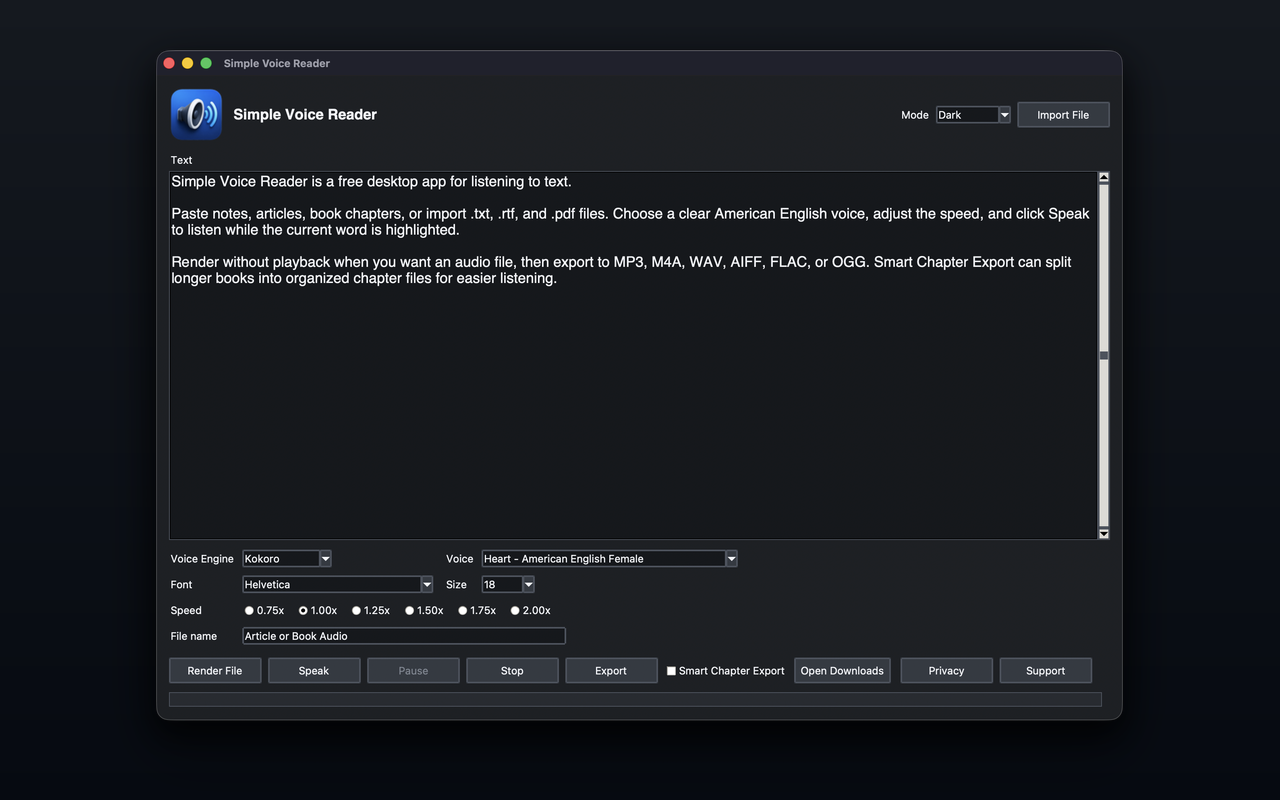
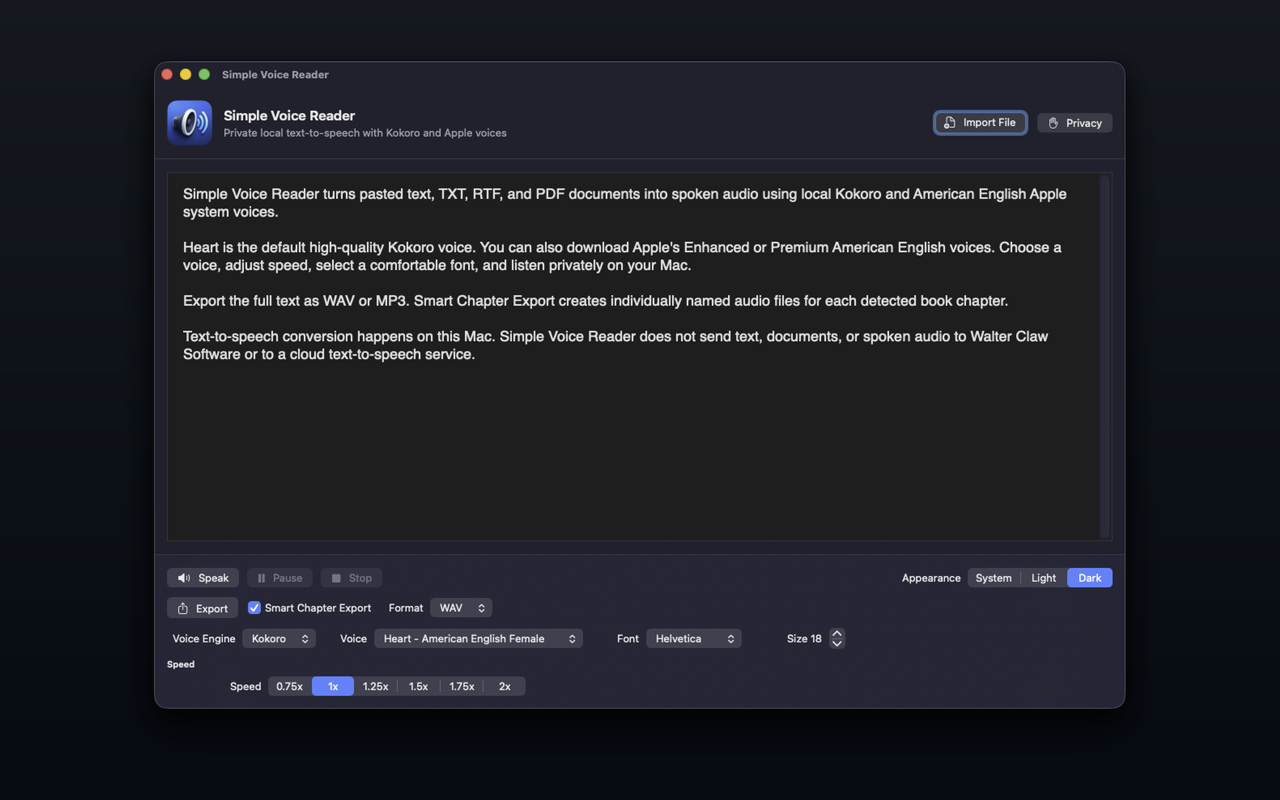
Restore Simple Voice Reader export marketing

Changed region(s): [[0.125, 0.0625, 0.875, 0.75], [0.125, 0.6875, 0.875, 0.9062], [0.7188, 0.125, 0.875, 0.1875]]

diff --git a/simple-voice-reader.html b/simple-voice-reader.html
@@ -56,8 +56,8 @@
             "name": "Simple Voice Reader",
             "applicationCategory": "ProductivityApplication",
             "operatingSystem": "iOS, iPadOS, macOS, Windows",
-            "softwareVersion": "1.0",
-            "description": "Simple Voice Reader is a free Mac text-to-speech reader for listening to pasted text, imported TXT, RTF, and PDF files, and exporting spoken audio.",
+            "softwareVersion": "1.0.1",
+            "description": "Simple Voice Reader is a free text-to-speech reader for listening to pasted text and imported TXT, RTF, and PDF files, or exporting spoken audio as WAV or MP3.",
             "url": "https://walterclawsoftware.com/simple-voice-reader",
             "image": "https://walterclawsoftware.com/assets/brand/simple-voice-reader-app-icon.png",
             "screenshot": [
@@ -109,10 +109,18 @@
                 },
                 {
                     "@type": "Question",
+                    "name": "Is text sent to a cloud speech service?",
+                    "acceptedAnswer": {
+                        "@type": "Answer",
+                        "text": "No. Kokoro and compatible installed system voices process speech locally. Simple Voice Reader does not send text or documents to Walter Claw Software or to a cloud text-to-speech service."
+                    }
+                },
+                {
+                    "@type": "Question",
                     "name": "Can Simple Voice Reader export audio?",
                     "acceptedAnswer": {
                         "@type": "Answer",
-                        "text": "Yes. The app can export spoken audio, and Smart Chapter Export can create separate chapter files when recognizable chapter structure is present."
+                        "text": "Yes. The Mac app exports WAV or MP3 audio. Smart Chapter Export detects recognizable chapter structure and creates a separate audio file for each chapter."
                     }
                 },
                 {
@@ -120,7 +128,7 @@
                     "name": "What voices are included?",
                     "acceptedAnswer": {
                         "@type": "Answer",
-                        "text": "The Apple editions use American English Apple system voices. The Windows edition supports Kokoro and installed American English Windows voices."
+                        "text": "The current Windows edition and forthcoming macOS 1.1 release support American English Kokoro voices plus compatible installed system voices. The iPhone and iPad editions use installed American English Apple system voices."
                     }
                 }
             ]
@@ -176,7 +184,8 @@
                             <span>iPhone / iPad / Mac / Windows</span>
                             <span>TXT / RTF / PDF import</span>
                             <span>Word highlighting</span>
-                            <span>Audio export</span>
+                            <span>Local processing</span>
+                            <span>WAV / MP3 export</span>
                         </div>
                     </div>
                     <aside class="hero-card sales-buy-card" id="storefront" aria-label="Get Simple Voice Reader.">
@@ -193,7 +202,7 @@
                             <a class="button button-secondary" href="https://apps.apple.com/us/app/simple-voice-reader/id6787165967" target="_blank" rel="noopener noreferrer" data-event="cta_click" data-product="simple-voice-reader" data-platform="ios" data-destination="app-store">Get Simple Voice Reader for iPhone &amp; iPad</a>
                             <a class="button button-secondary" href="https://apps.microsoft.com/search?query=Simple%20Voice%20Reader" target="_blank" rel="noopener noreferrer" data-event="cta_click" data-product="simple-voice-reader" data-platform="windows" data-destination="microsoft-store">Get it from Microsoft</a>
                         </div>
-                        <p class="storefront-note" data-storefront-helper>The Apple App Store listing supports iPhone, iPad, and Mac. The Windows edition is available from Microsoft Store.</p>
+                        <p class="storefront-note" data-storefront-helper>The Apple App Store listing supports iPhone, iPad, and Mac. The Windows edition is available from Microsoft Store. macOS 1.1 with 19 Kokoro voices is in final release testing.</p>
                     </aside>
                 </div>
             </div>
@@ -218,8 +227,8 @@
                         <p>Choose an American English voice, set the speed from 0.75x to 2.0x, pause when needed, and resume from the current position.</p>
                     </article>
                     <article class="page-card">
-                        <h3>Export spoken audio</h3>
-                        <p>Render audio without real-time playback, choose a destination, and use Smart Chapter Export when a document has recognizable chapter structure.</p>
+                        <h3>Create listening files</h3>
+                        <p>Export the whole document as WAV or MP3, or let Smart Chapter Export create a separate audio file for each detected chapter.</p>
                     </article>
                 </div>
             </div>
@@ -237,7 +246,7 @@
                 <div class="screenshot-grid">
                     <figure class="screenshot-card">
                         <a class="screenshot-link" href="assets/screenshots/Simple-Voice-Reader-Light-Mode.png" data-gallery-media="image" data-gallery-src="assets/screenshots/Simple-Voice-Reader-Light-Mode.png" data-gallery-title="Simple Voice Reader light mode" data-gallery-width="1280" data-gallery-height="800">
-                            <img src="assets/screenshots/Simple-Voice-Reader-Light-Mode.webp" alt="Simple Voice Reader light mode showing text, voice controls, speed selection, import, export, and speech controls." width="1280" height="800">
+                            <img src="assets/screenshots/Simple-Voice-Reader-Light-Mode.webp" alt="Simple Voice Reader light mode showing Kokoro Heart, text, speed, font, import, WAV or MP3 export, and speech controls." width="1280" height="800">
                         </a>
                         <figcaption>
                             <strong>Light mode reading workspace</strong>
@@ -246,7 +255,7 @@
                     </figure>
                     <figure class="screenshot-card">
                         <a class="screenshot-link" href="assets/screenshots/Simple-Voice-Reader-Dark-Mode.png" data-gallery-media="image" data-gallery-src="assets/screenshots/Simple-Voice-Reader-Dark-Mode.png" data-gallery-title="Simple Voice Reader dark mode" data-gallery-width="1280" data-gallery-height="800">
-                            <img src="assets/screenshots/Simple-Voice-Reader-Dark-Mode.webp" alt="Simple Voice Reader dark mode showing the same text-to-speech workflow with dark appearance selected." width="1280" height="800">
+                            <img src="assets/screenshots/Simple-Voice-Reader-Dark-Mode.webp" alt="Simple Voice Reader dark mode showing Smart Chapter Export enabled with WAV selected." width="1280" height="800">
                         </a>
                         <figcaption>
                             <strong>Dark mode for long sessions</strong>
@@ -277,7 +286,7 @@
                     </article>
                     <article class="feature-card">
                         <h3>American English voices</h3>
-                        <p>The submitted Mac build includes American English Kokoro voices and selected normal American English Apple system voices.</p>
+                        <p>The forthcoming macOS 1.1 release includes 19 American English Kokoro voices and displays compatible American English Apple system voices installed on the Mac.</p>
                     </article>
                     <article class="feature-card">
                         <h3>File import</h3>
@@ -288,8 +297,8 @@
                         <p>Choose a font and font size from the system fonts available on your Mac.</p>
                     </article>
                     <article class="feature-card">
-                        <h3>Export options</h3>
-                        <p>Export rendered speech to popular audio formats and choose the folder and file name that fit your workflow.</p>
+                        <h3>WAV, MP3, and chapters</h3>
+                        <p>Choose WAV or MP3 for a full-document export. Smart Chapter Export can parse recognizable headings in text or PDF imports and create individually named chapter files.</p>
                     </article>
                 </div>
             </div>
@@ -329,7 +338,7 @@
                         <div class="eyebrow">Product FAQ</div>
                         <h2 id="simple-voice-reader-faq-heading">Simple Voice Reader questions.</h2>
                     </div>
-                    <p>Short answers about release status, file types, voices, export, and support.</p>
+                    <p>Short answers about release status, file types, voices, privacy, export, and support.</p>
                 </div>
                 <div class="grid grid-two">
                     <article class="page-card">
@@ -345,12 +354,20 @@
                         <p>You can paste or type text directly, or import TXT, RTF, and PDF files.</p>
                     </article>
                     <article class="page-card">
+                        <h3>Is speech processed locally?</h3>
+                        <p>Yes. Kokoro and compatible installed system voices process speech on the device. Text and documents are not sent to Walter Claw Software or to a cloud text-to-speech service.</p>
+                    </article>
+                    <article class="page-card">
                         <h3>Can I export audio?</h3>
-                        <p>Yes. Export lets you choose the file name, folder, and popular audio format. Smart Chapter Export can create separate files from detected chapters.</p>
+                        <p>Yes. The Mac app exports the full document as WAV or MP3. You choose the file name, format, and destination.</p>
+                    </article>
+                    <article class="page-card">
+                        <h3>What does Smart Chapter Export do?</h3>
+                        <p>When recognizable chapter headings are present in text or an imported PDF, it creates separate, clearly named WAV or MP3 files for the detected chapters.</p>
                     </article>
                     <article class="page-card">
                         <h3>What voices are supported?</h3>
-                        <p>The Apple editions use American English Apple system voices. The Windows edition supports Kokoro and installed American English Windows voices.</p>
+                        <p>The current Windows edition and forthcoming macOS 1.1 release support American English Kokoro voices plus compatible installed system voices. iPhone and iPad use installed American English Apple system voices.</p>
                     </article>
                     <article class="page-card">
                         <h3>Where do I get help?</h3>
@@ -364,7 +381,7 @@
             <div class="shell">
                 <div class="callout">
                     <h3>Want a simple answer before downloading?</h3>
-                    <p>Email support with the kind of text you want to listen to, the file type, and whether you need live speech or exported audio. You will get a plain recommendation.</p>
+                    <p>Email support with the kind of text you want to listen to, the file type, voice engine, whether you need live speech or exported audio, and any visible error. You will get a plain recommendation.</p>
                     <div class="hero-actions">
                         <a class="button button-primary" href="mailto:support@walterclawsoftware.com" data-event="cta_click" data-product="simple-voice-reader" data-platform="support" data-destination="support-email">Email support</a>
                         <a class="button button-secondary" href="/simple-voice-reader/privacy" data-event="cta_click" data-product="simple-voice-reader" data-platform="web" data-destination="privacy">Read privacy policy</a>

diff --git a/simple-voice-reader/support/index.html b/simple-voice-reader/support/index.html
@@ -70,7 +70,7 @@
             <div class="shell">
                 <div class="eyebrow">Simple Voice Reader support</div>
                 <h1>Support for reading text aloud and exporting audio on Mac.</h1>
-                <p>Simple Voice Reader is a free macOS app from Walter Claw Software LLC. For help with installing, importing text, speech playback, voices, audio export, or Smart Chapter Export, email support and include enough detail to reproduce the issue.</p>
+                <p>Simple Voice Reader is a free macOS app from Walter Claw Software LLC. For help with installing, importing text, speech playback, Kokoro, Apple voices, WAV or MP3 export, Smart Chapter Export, fonts, or appearance, email support and include enough detail to reproduce the issue.</p>
                 <div class="highlight-bar">
                     <span class="pill">App: Simple Voice Reader</span>
                     <span class="pill">Platform: macOS</span>
@@ -84,7 +84,7 @@
                 <div class="grid grid-two">
                     <article class="contact-card">
                         <h3>Email support</h3>
-                        <p>Email <a href="mailto:support@walterclawsoftware.com">support@walterclawsoftware.com</a> for Simple Voice Reader installation, playback, import, export, voice, font, and chapter export questions.</p>
+                        <p>Email <a href="mailto:support@walterclawsoftware.com">support@walterclawsoftware.com</a> for Simple Voice Reader installation, playback, import, export, voice, font, appearance, and chapter export questions.</p>
                     </article>
                     <article class="contact-card">
                         <h3>Privacy questions</h3>
@@ -103,7 +103,7 @@
                         <li>Your macOS version and whether you downloaded the app from the Mac App Store.</li>
                         <li>The Simple Voice Reader app version if visible.</li>
                         <li>The voice engine and voice you selected, such as Kokoro Heart or Apple Samantha.</li>
-                        <li>Whether the issue happened while speaking live, importing a file, rendering, exporting, or using Smart Chapter Export.</li>
+                        <li>Whether the issue happened while speaking live, importing a file, exporting WAV or MP3, or using Smart Chapter Export.</li>
                         <li>The exact file type involved if import failed: TXT, RTF, or PDF.</li>
                         <li>Any visible error message, screenshot, or short sample text that reproduces the issue.</li>
                     </ul>
@@ -125,12 +125,20 @@
                         <p>Simple Voice Reader supports TXT, RTF, and PDF import. You can also paste or type text directly into the app.</p>
                     </article>
                     <article class="feature-card">
+                        <h3>Can I start from the middle of the text?</h3>
+                        <p>Yes. Place the cursor at the point where you want reading to begin, then click Speak.</p>
+                    </article>
+                    <article class="feature-card">
                         <h3>Can I export audio?</h3>
-                        <p>Yes. Use Export to choose a file name, audio format, and destination. Smart Chapter Export can create separate chapter files when the text has recognizable chapter structure.</p>
+                        <p>Yes. Use Export to choose WAV or MP3, a file name, and a destination. The audio is rendered locally on your Mac.</p>
+                    </article>
+                    <article class="feature-card">
+                        <h3>What is Smart Chapter Export?</h3>
+                        <p>Enable it before exporting to detect recognizable chapter headings in text or an imported PDF and create a separate, clearly named audio file for each chapter.</p>
                     </article>
                     <article class="feature-card">
                         <h3>What voices are included?</h3>
-                        <p>The Mac App Store build supports American English Kokoro voices bundled with the app and selected American English Apple system voices installed on macOS.</p>
+                        <p>The forthcoming macOS 1.1 App Store release supports American English Kokoro voices bundled with the app and compatible American English Apple system voices installed on macOS.</p>
                     </article>
                     <article class="feature-card">
                         <h3>Does support cost anything?</h3>

diff --git a/simple-voice-reader/privacy/index.html b/simple-voice-reader/privacy/index.html
@@ -50,7 +50,7 @@
             <div class="shell">
                 <div class="eyebrow">Simple Voice Reader privacy policy</div>
                 <h1>Simple Voice Reader is designed as a local text-to-speech utility.</h1>
-                <p>This policy applies to Simple Voice Reader for macOS. The app reads text aloud, imports TXT, RTF, and PDF files, and exports audio files to locations selected by the user.</p>
+                <p>This policy applies to Simple Voice Reader for macOS. The app reads text aloud, imports TXT, RTF, and PDF files, and exports WAV or MP3 audio to locations selected by the user.</p>
                 <div class="highlight-bar">
                     <span class="pill">Effective date: July 4, 2026</span>
                     <span class="pill">Company: Walter Claw Software LLC</span>
@@ -64,7 +64,7 @@
                 <article class="page-card table-like">
                     <div class="table-row">
                         <strong>What the app does</strong>
-                        <div>Simple Voice Reader converts user-provided text into spoken audio. Users can type or paste text, import TXT, RTF, or PDF files, listen in the app, and export audio files.</div>
+                        <div>Simple Voice Reader converts user-provided text into spoken audio. Users can type or paste text, import TXT, RTF, or PDF files, listen in the app, and export WAV or MP3 audio.</div>
                     </div>
                     <div class="table-row">
                         <strong>Local text handling</strong>
@@ -72,15 +72,19 @@
                     </div>
                     <div class="table-row">
                         <strong>Voice engines</strong>
-                        <div>The Mac App Store build includes bundled American English Kokoro voices and selected American English Apple system voices. The App Store build does not include Edge voices and does not send spoken text to Microsoft Edge TTS.</div>
+                        <div>The forthcoming macOS 1.1 App Store build includes bundled American English Kokoro voices and compatible American English Apple system voices. The App Store build does not include Edge voices and does not send spoken text to Microsoft Edge TTS.</div>
                     </div>
                     <div class="table-row">
                         <strong>Files selected by the user</strong>
-                        <div>When a user imports a file or chooses an export destination, Simple Voice Reader accesses the selected file or folder for that requested action. Exported audio is saved where the user chooses.</div>
+                        <div>When a user imports a file or chooses an export destination, Simple Voice Reader accesses the selected file or folder only for that requested action. Exported audio is saved where the user chooses.</div>
                     </div>
                     <div class="table-row">
                         <strong>Audio exports</strong>
-                        <div>Rendered audio files are created on the user's Mac. If Smart Chapter Export is enabled, the app can create separate audio files for detected chapters.</div>
+                        <div>Rendered WAV and MP3 files are created locally on the user's Mac. If Smart Chapter Export is enabled, the app can parse recognizable chapter structure in the text or imported PDF and create a separate audio file for each detected chapter.</div>
+                    </div>
+                    <div class="table-row">
+                        <strong>Speech playback</strong>
+                        <div>Kokoro may create temporary local audio files inside the app's sandbox for playback. These files are not uploaded to Walter Claw Software or to a cloud text-to-speech service.</div>
                     </div>
                     <div class="table-row">
                         <strong>Data we sell</strong>

diff --git a/docs/PROJECT_STATUS.md b/docs/PROJECT_STATUS.md
@@ -12,6 +12,13 @@ This document is public-safe because Netlify publishes the repository root. Live
 
 ## Recently Completed
 
+- Restored accurate WAV, MP3, and Smart Chapter Export coverage across the
+  Simple Voice Reader product, support, privacy, FAQ, and structured-data copy
+  while retaining the newer local-processing and Kokoro disclosures.
+- Replaced the Mac product screenshots with current light and dark images that
+  visibly show Export, WAV/MP3 selection, and Smart Chapter Export.
+- Labeled macOS 1.1 as being in final release testing rather than implying that
+  its Kokoro build is already available from the App Store.
 - Updated the homepage, Simple Voice Reader product page, storefront configuration, metadata, structured data, FAQ, and update history to show live Apple App Store and Microsoft Store availability.
 - Added the live Apple listing for iPhone, iPad, and Mac and a Microsoft Store search link for the Windows listing.
 - Split the Apple storefront call to action into clearly labeled Mac and iPhone/iPad buttons; the Mac link uses Apple’s `mt=12` platform hint.
@@ -20,6 +27,11 @@ This document is public-safe because Netlify publishes the repository root. Live
 
 ## Verification
 
+- Parsed all three changed HTML pages, validated every JSON-LD block, and
+  confirmed referenced image assets exist.
+- Local HTTP smoke checks returned 200 for the product, privacy, support, and
+  screenshot assets. Both screenshot PNGs are 1280x800 without alpha and were
+  visually inspected after derivation from the release screenshots.
 - Apple’s public lookup API returned Simple Voice Reader as a free app under ID `6787165967`, supporting iPhone, iPad, and Mac.
 - Microsoft Store availability was supplied by the product owner; the public site points to Microsoft Store search until a stable product-detail URL is recorded.
 - Clean GitHub-origin continuity checkout inspected.
@@ -28,12 +40,18 @@ This document is public-safe because Netlify publishes the repository root. Live
 ## External State
 
 - Live product availability and prices must be verified against Apple/Microsoft storefronts before changing website claims.
+- The current Mac App Store release remains 1.0.1; macOS 1.1 is still in final
+  local release testing and has not been represented as available.
 
 ## Known Issues and Risks
 
 - Static copy can drift from store state or application capabilities.
+- Replace the macOS 1.1 testing language only after App Store Connect and the
+  public storefront confirm the corresponding state.
 - Any future status update committed here must remain suitable for public exposure.
 
 ## Next Recommended Action
 
-- Replace the Microsoft Store search URL with the stable product-detail URL when its product ID is recorded, then smoke-check both storefront links.
+- After macOS 1.1 is submitted and released, update its release-state language
+  from verified App Store Connect and public storefront evidence. Replace the
+  Microsoft Store search URL when its stable product-detail URL is recorded.
